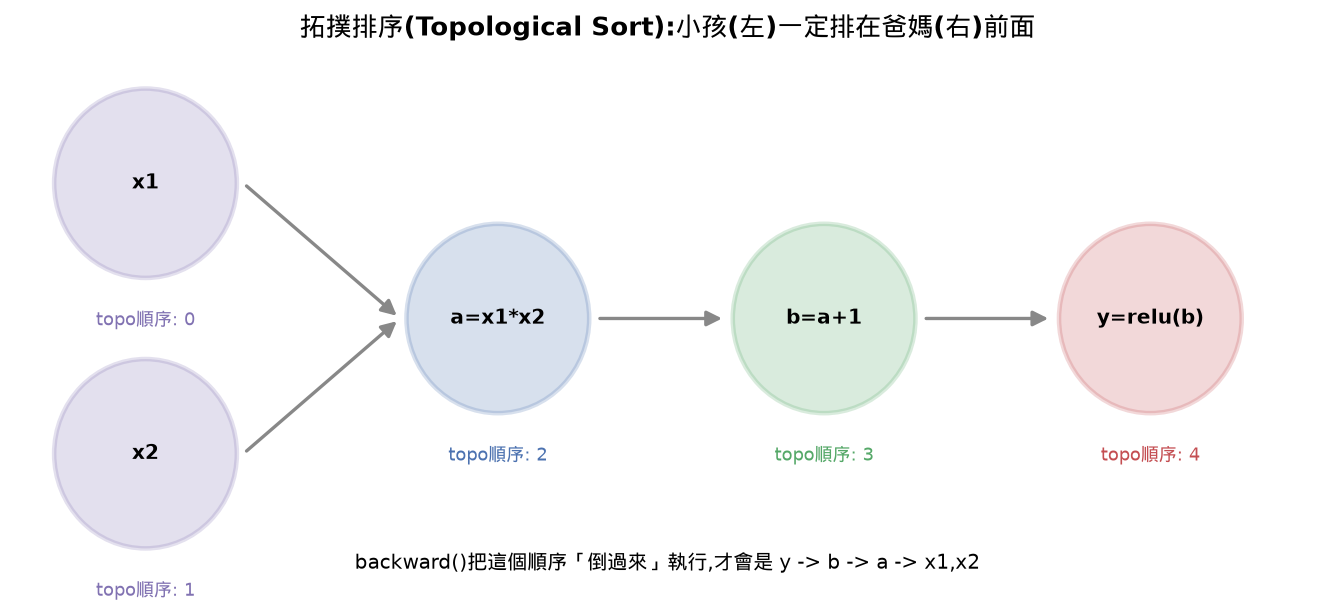
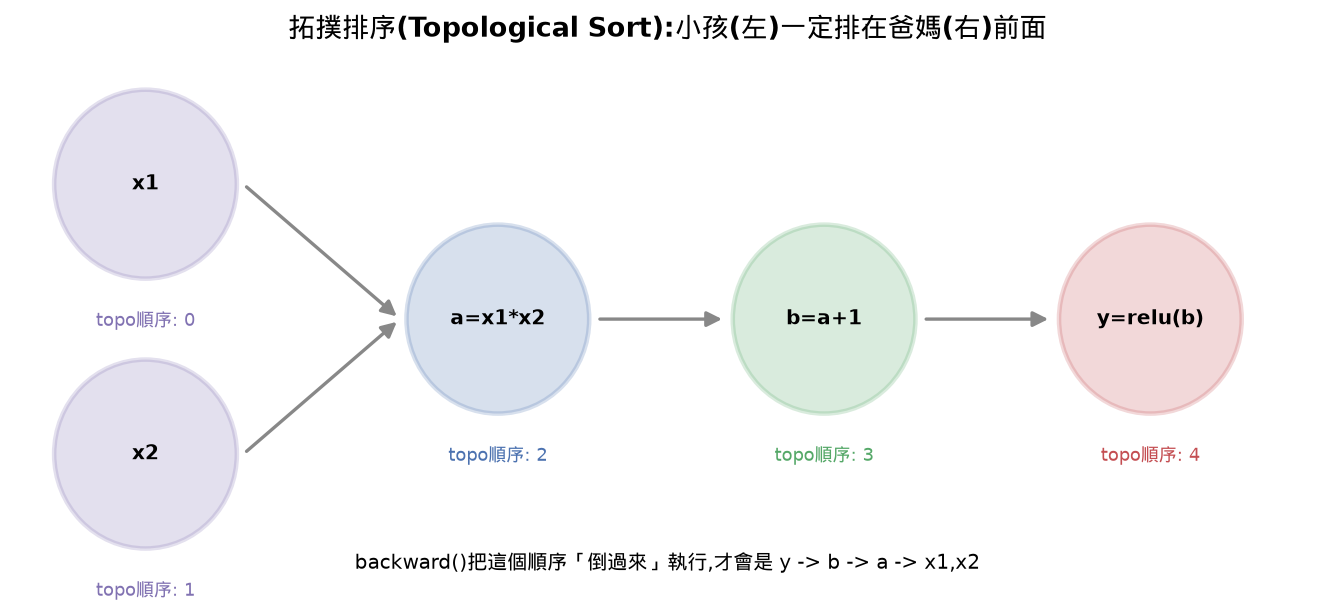
Lesson 5 diagrams: unify visual style
Regenerate with the shared plot style module.

diff --git a/01-math-foundations/05-chain-rule-and-autodiff/images/make_gradient_checking_demo.py b/01-math-foundations/05-chain-rule-and-autodiff/images/make_gradient_checking_demo.py
@@ -7,9 +7,10 @@ import matplotlib.font_manager as fm
 import matplotlib.pyplot as plt
 import numpy as np
 
-fm.fontManager.addfont("/usr/share/fonts/truetype/droid/DroidSansFallbackFull.ttf")
-matplotlib.rcParams["font.family"] = ["DejaVu Sans", "Droid Sans Fallback"]
-matplotlib.rcParams["axes.unicode_minus"] = False
+import sys
+sys.path.insert(0, "../../_shared")
+from plot_style import setup_style, BLUE, RED, GREEN, PURPLE, GOLD, GRAY
+setup_style()
 
 fig, axes = plt.subplots(1, 2, figsize=(9.5, 4.3))
 
@@ -20,7 +21,7 @@ for b, v in zip(bars, vals):
     ax.text(b.get_x() + b.get_width() / 2, v + 0.003, f"{v:.8f}", ha="center", fontsize=9)
 ax.set_ylim(0, 0.19)
 ax.set_ylabel("df/dx  (f(x)=tanh(x³+2x+1), x=0.5)", fontsize=9.5)
-ax.set_title("兩種方法算出幾乎一樣的梯度", fontsize=11, fontweight="bold")
+ax.set_title("兩種方法算出幾乎一樣的梯度", fontsize=11.5, fontweight="bold")
 
 ax = axes[1]
 ax.axhline(1e-5, color="#C44E52", lw=2, linestyle="--", label="可接受門檻 1e-5")
@@ -30,10 +31,10 @@ ax.set_ylim(1e-12, 1e-3)
 ax.set_xlim(-1, 1)
 ax.set_xticks([])
 ax.set_ylabel("|autodiff - numerical| (log scale)", fontsize=9.5)
-ax.legend(fontsize=9)
-ax.set_title("誤差遠小於門檻,引擎寫對了", fontsize=11, fontweight="bold")
+ax.legend()
+ax.set_title("誤差遠小於門檻,引擎寫對了", fontsize=11.5, fontweight="bold")
 
-fig.suptitle("Gradient Checking:用數值法驗證autodiff是否正確", fontsize=13, fontweight="bold")
+fig.suptitle("Gradient Checking:用數值法驗證autodiff是否正確")
 plt.tight_layout()
 plt.savefig("gradient_checking.png", dpi=150, bbox_inches="tight")
 print("saved")

diff --git a/01-math-foundations/05-chain-rule-and-autodiff/images/make_forward_vs_reverse_mode_demo.py b/01-math-foundations/05-chain-rule-and-autodiff/images/make_forward_vs_reverse_mode_demo.py
@@ -6,9 +6,10 @@ import matplotlib.font_manager as fm
 import matplotlib.pyplot as plt
 from matplotlib.patches import FancyBboxPatch, FancyArrowPatch
 
-fm.fontManager.addfont("/usr/share/fonts/truetype/droid/DroidSansFallbackFull.ttf")
-matplotlib.rcParams["font.family"] = ["DejaVu Sans", "Droid Sans Fallback"]
-matplotlib.rcParams["axes.unicode_minus"] = False
+import sys
+sys.path.insert(0, "../../_shared")
+from plot_style import setup_style, BLUE, RED, GREEN, PURPLE, GOLD, GRAY
+setup_style()
 
 fig, axes = plt.subplots(1, 2, figsize=(12, 4.3))
 
@@ -33,7 +34,7 @@ def draw_chain(ax, title, color, arrow_forward, seed_text, seed_at, label):
     ax.set_xlim(0, 8)
     ax.set_ylim(0, 2.3)
     ax.axis("off")
-    ax.set_title(title, fontsize=12.5, fontweight="bold", color=color)
+    ax.set_title(title, fontsize=11.5, fontweight="bold", color=color)
     ax.text(4, -0.2, label, ha="center", fontsize=9.5, color="#555555")
 
 draw_chain(axes[0], "Forward Mode\n種子放輸入,往前推導數", "#4C72B0",
@@ -41,7 +42,7 @@ draw_chain(axes[0], "Forward Mode\n種子放輸入,往前推導數", "#4C72B0",
 draw_chain(axes[1], "Reverse Mode\n種子放輸出,往回拉梯度", "#C44E52",
            False, "種子: dy/dy=1", 3, "適合:輸入多、輸出少 (神經網路用這個)")
 
-fig.suptitle("Forward Mode vs Reverse Mode:種子放的位置跟傳播方向不同", fontsize=13.5, fontweight="bold")
+fig.suptitle("Forward Mode vs Reverse Mode:種子放的位置跟傳播方向不同")
 plt.tight_layout()
 plt.savefig("forward_vs_reverse_mode.png", dpi=150, bbox_inches="tight")
 print("saved")

diff --git a/01-math-foundations/05-chain-rule-and-autodiff/images/make_topological_sort_demo.py b/01-math-foundations/05-chain-rule-and-autodiff/images/make_topological_sort_demo.py
@@ -6,9 +6,10 @@ import matplotlib
 import matplotlib.font_manager as fm
 import matplotlib.pyplot as plt
 
-fm.fontManager.addfont("/usr/share/fonts/truetype/droid/DroidSansFallbackFull.ttf")
-matplotlib.rcParams["font.family"] = ["DejaVu Sans", "Droid Sans Fallback"]
-matplotlib.rcParams["axes.unicode_minus"] = False
+import sys
+sys.path.insert(0, "../../_shared")
+from plot_style import setup_style, BLUE, RED, GREEN, PURPLE, GOLD, GRAY
+setup_style()
 
 fig, ax = plt.subplots(figsize=(9, 4.2))
 ax.set_xlim(0, 10)
@@ -35,7 +36,7 @@ for name, (x, y, c, order) in nodes.items():
     ax.text(x, y, name, ha="center", va="center", fontsize=9.5, fontweight="bold")
     ax.text(x, y - 1.05, f"topo順序: {order}", ha="center", fontsize=8.5, color=c)
 
-ax.set_title("拓撲排序(Topological Sort):小孩(左)一定排在爸媽(右)前面", fontsize=12.5, fontweight="bold")
+ax.set_title("拓撲排序(Topological Sort):小孩(左)一定排在爸媽(右)前面")
 ax.text(5, 0.15, "backward()把這個順序「倒過來」執行,才會是 y -> b -> a -> x1,x2",
         ha="center", fontsize=9.5)
 

diff --git a/01-math-foundations/05-chain-rule-and-autodiff/images/make_tanh_demo.py b/01-math-foundations/05-chain-rule-and-autodiff/images/make_tanh_demo.py
@@ -6,9 +6,10 @@ import matplotlib.font_manager as fm
 import matplotlib.pyplot as plt
 import numpy as np
 
-fm.fontManager.addfont("/usr/share/fonts/truetype/droid/DroidSansFallbackFull.ttf")
-matplotlib.rcParams["font.family"] = ["DejaVu Sans", "Droid Sans Fallback"]
-matplotlib.rcParams["axes.unicode_minus"] = False
+import sys
+sys.path.insert(0, "../../_shared")
+from plot_style import setup_style, BLUE, RED, GREEN, PURPLE, GOLD, GRAY
+setup_style()
 
 x = np.linspace(-4, 4, 400)
 y = np.tanh(x)
@@ -23,8 +24,8 @@ ax.axhline(0, color="#bbbbbb", lw=0.7)
 ax.axvline(0, color="#bbbbbb", lw=0.7)
 ax.set_ylim(-1.3, 1.3)
 ax.grid(alpha=0.3, linestyle="--")
-ax.legend(fontsize=10, loc="lower right")
-ax.set_title("tanh:壓縮到(-1,1)的S形曲線,中間變化快、兩端變化慢", fontsize=12.5, fontweight="bold")
+ax.legend(loc="lower right")
+ax.set_title("tanh:壓縮到(-1,1)的S形曲線,中間變化快、兩端變化慢")
 
 plt.tight_layout()
 plt.savefig("tanh_activation.png", dpi=150, bbox_inches="tight")

diff --git a/01-math-foundations/05-chain-rule-and-autodiff/images/make_xor_training_demo.py b/01-math-foundations/05-chain-rule-and-autodiff/images/make_xor_training_demo.py
@@ -7,9 +7,10 @@ import matplotlib
 import matplotlib.font_manager as fm
 import matplotlib.pyplot as plt
 
-fm.fontManager.addfont("/usr/share/fonts/truetype/droid/DroidSansFallbackFull.ttf")
-matplotlib.rcParams["font.family"] = ["DejaVu Sans", "Droid Sans Fallback"]
-matplotlib.rcParams["axes.unicode_minus"] = False
+import sys
+sys.path.insert(0, "../../_shared")
+from plot_style import setup_style, BLUE, RED, GREEN, PURPLE, GOLD, GRAY
+setup_style()
 
 sys.path.insert(0, "..")
 from reference import MLP
@@ -45,7 +46,7 @@ ax.annotate(f"step 99\nloss={losses[-1]:.4f}", (99, losses[-1]), textcoords="off
 ax.set_ylim(0, 4.6)
 ax.set_xlabel("訓練步數 (step)")
 ax.set_ylabel("loss (MSE)")
-ax.set_title("親手刻的autograd引擎訓練XOR問題:loss真的持續下降", fontsize=12.5, fontweight="bold", pad=12)
+ax.set_title("親手刻的autograd引擎訓練XOR問題:loss真的持續下降", pad=12)
 ax.grid(alpha=0.3, linestyle="--")
 
 plt.tight_layout()
